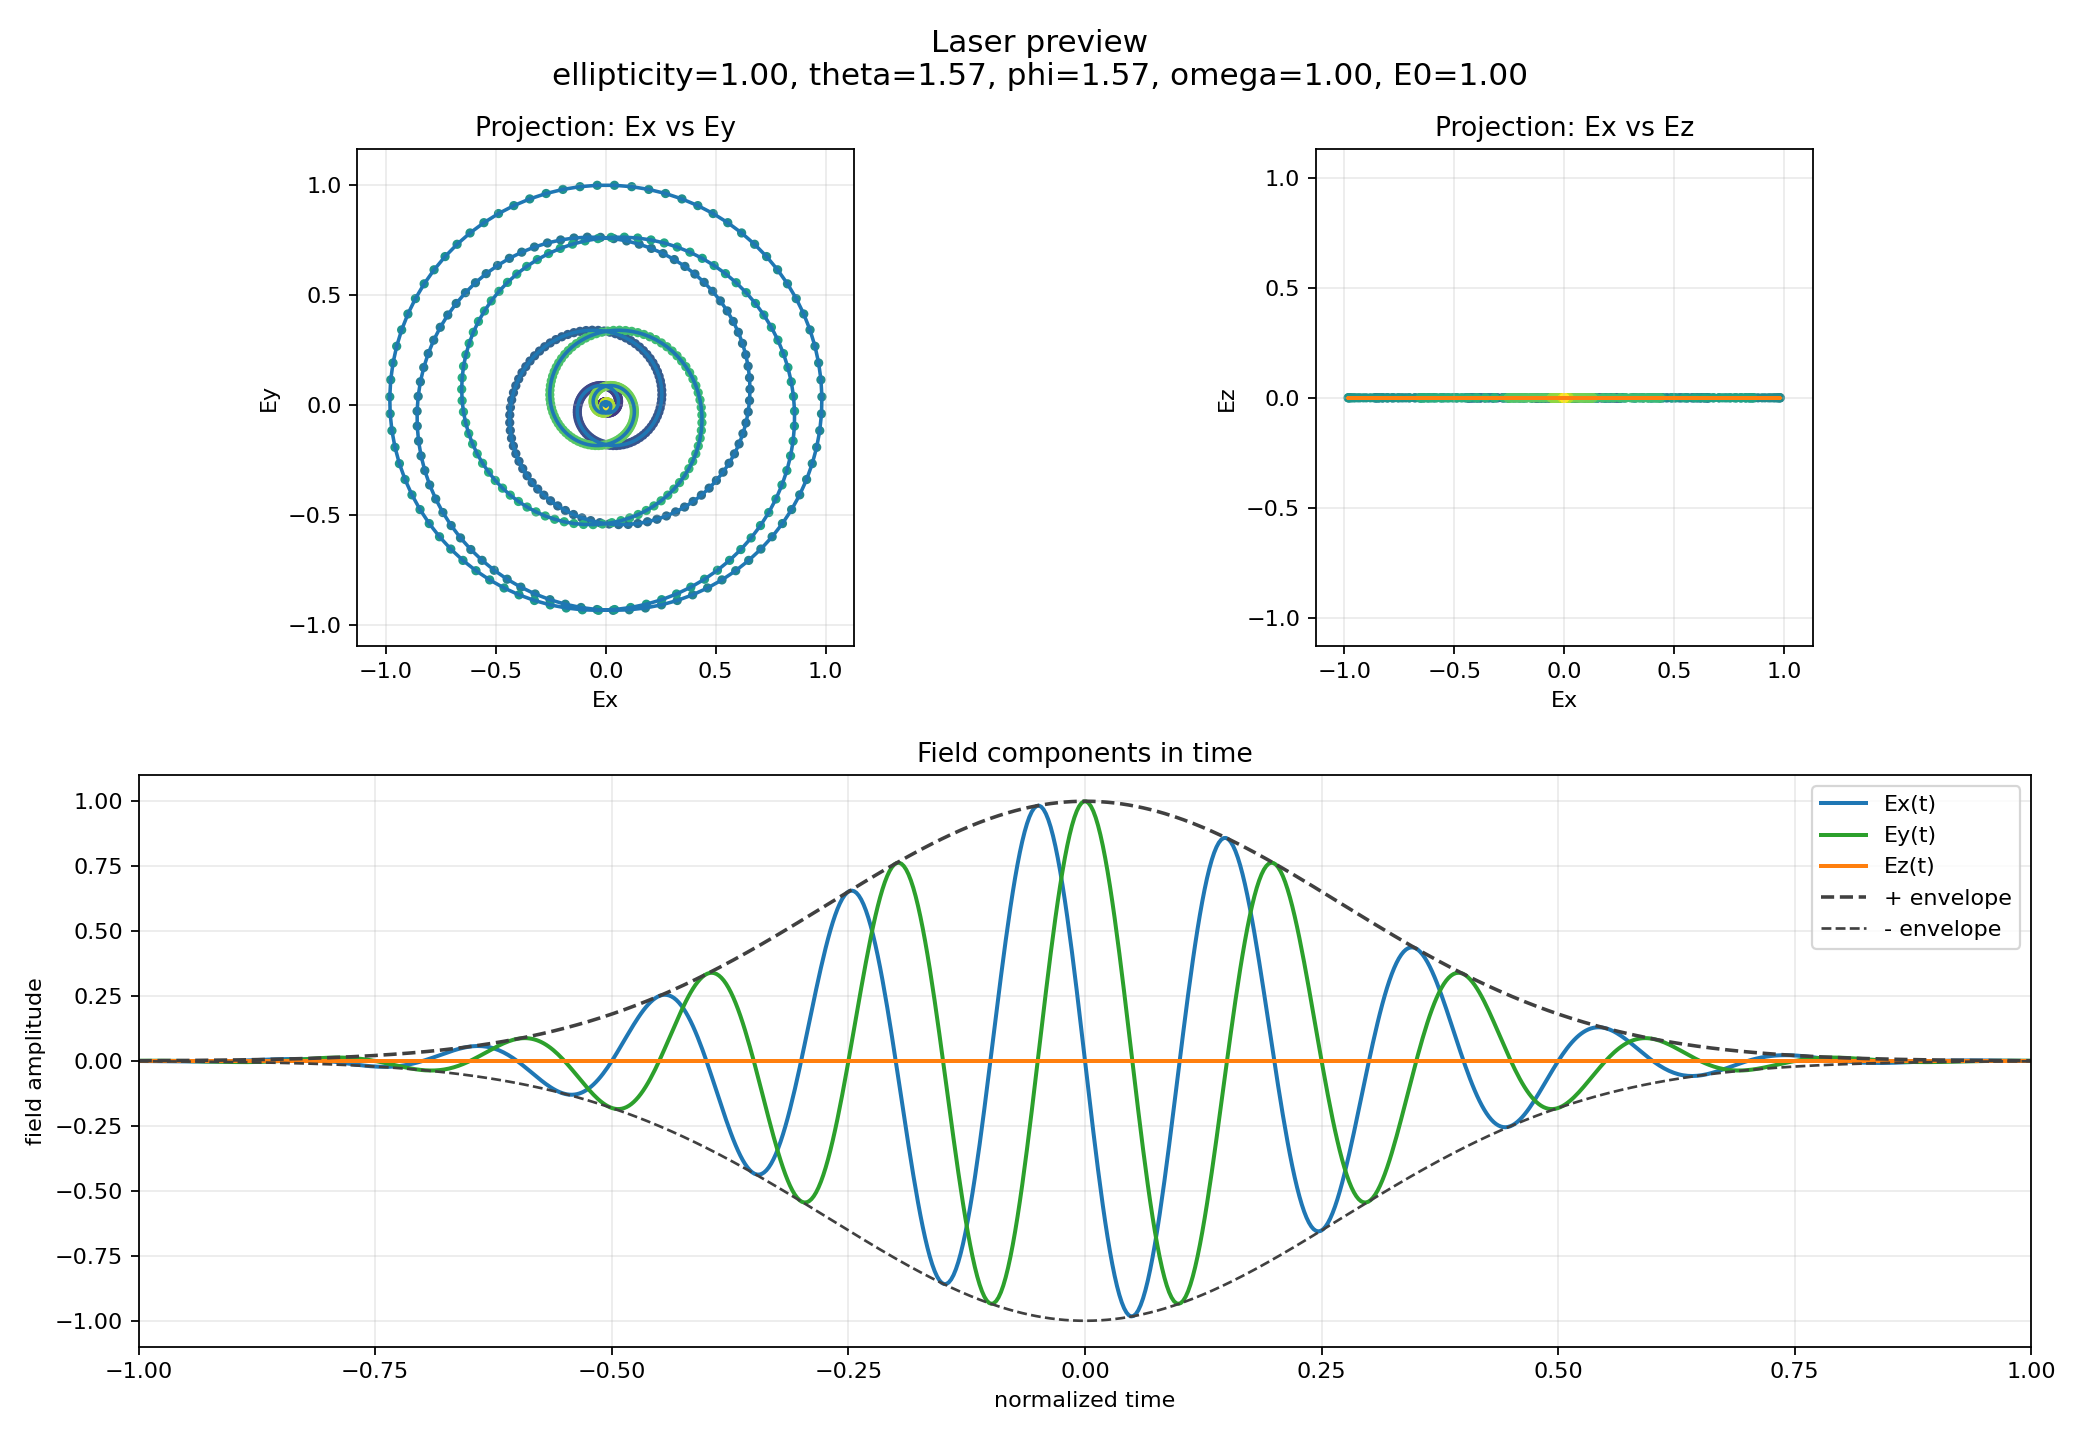
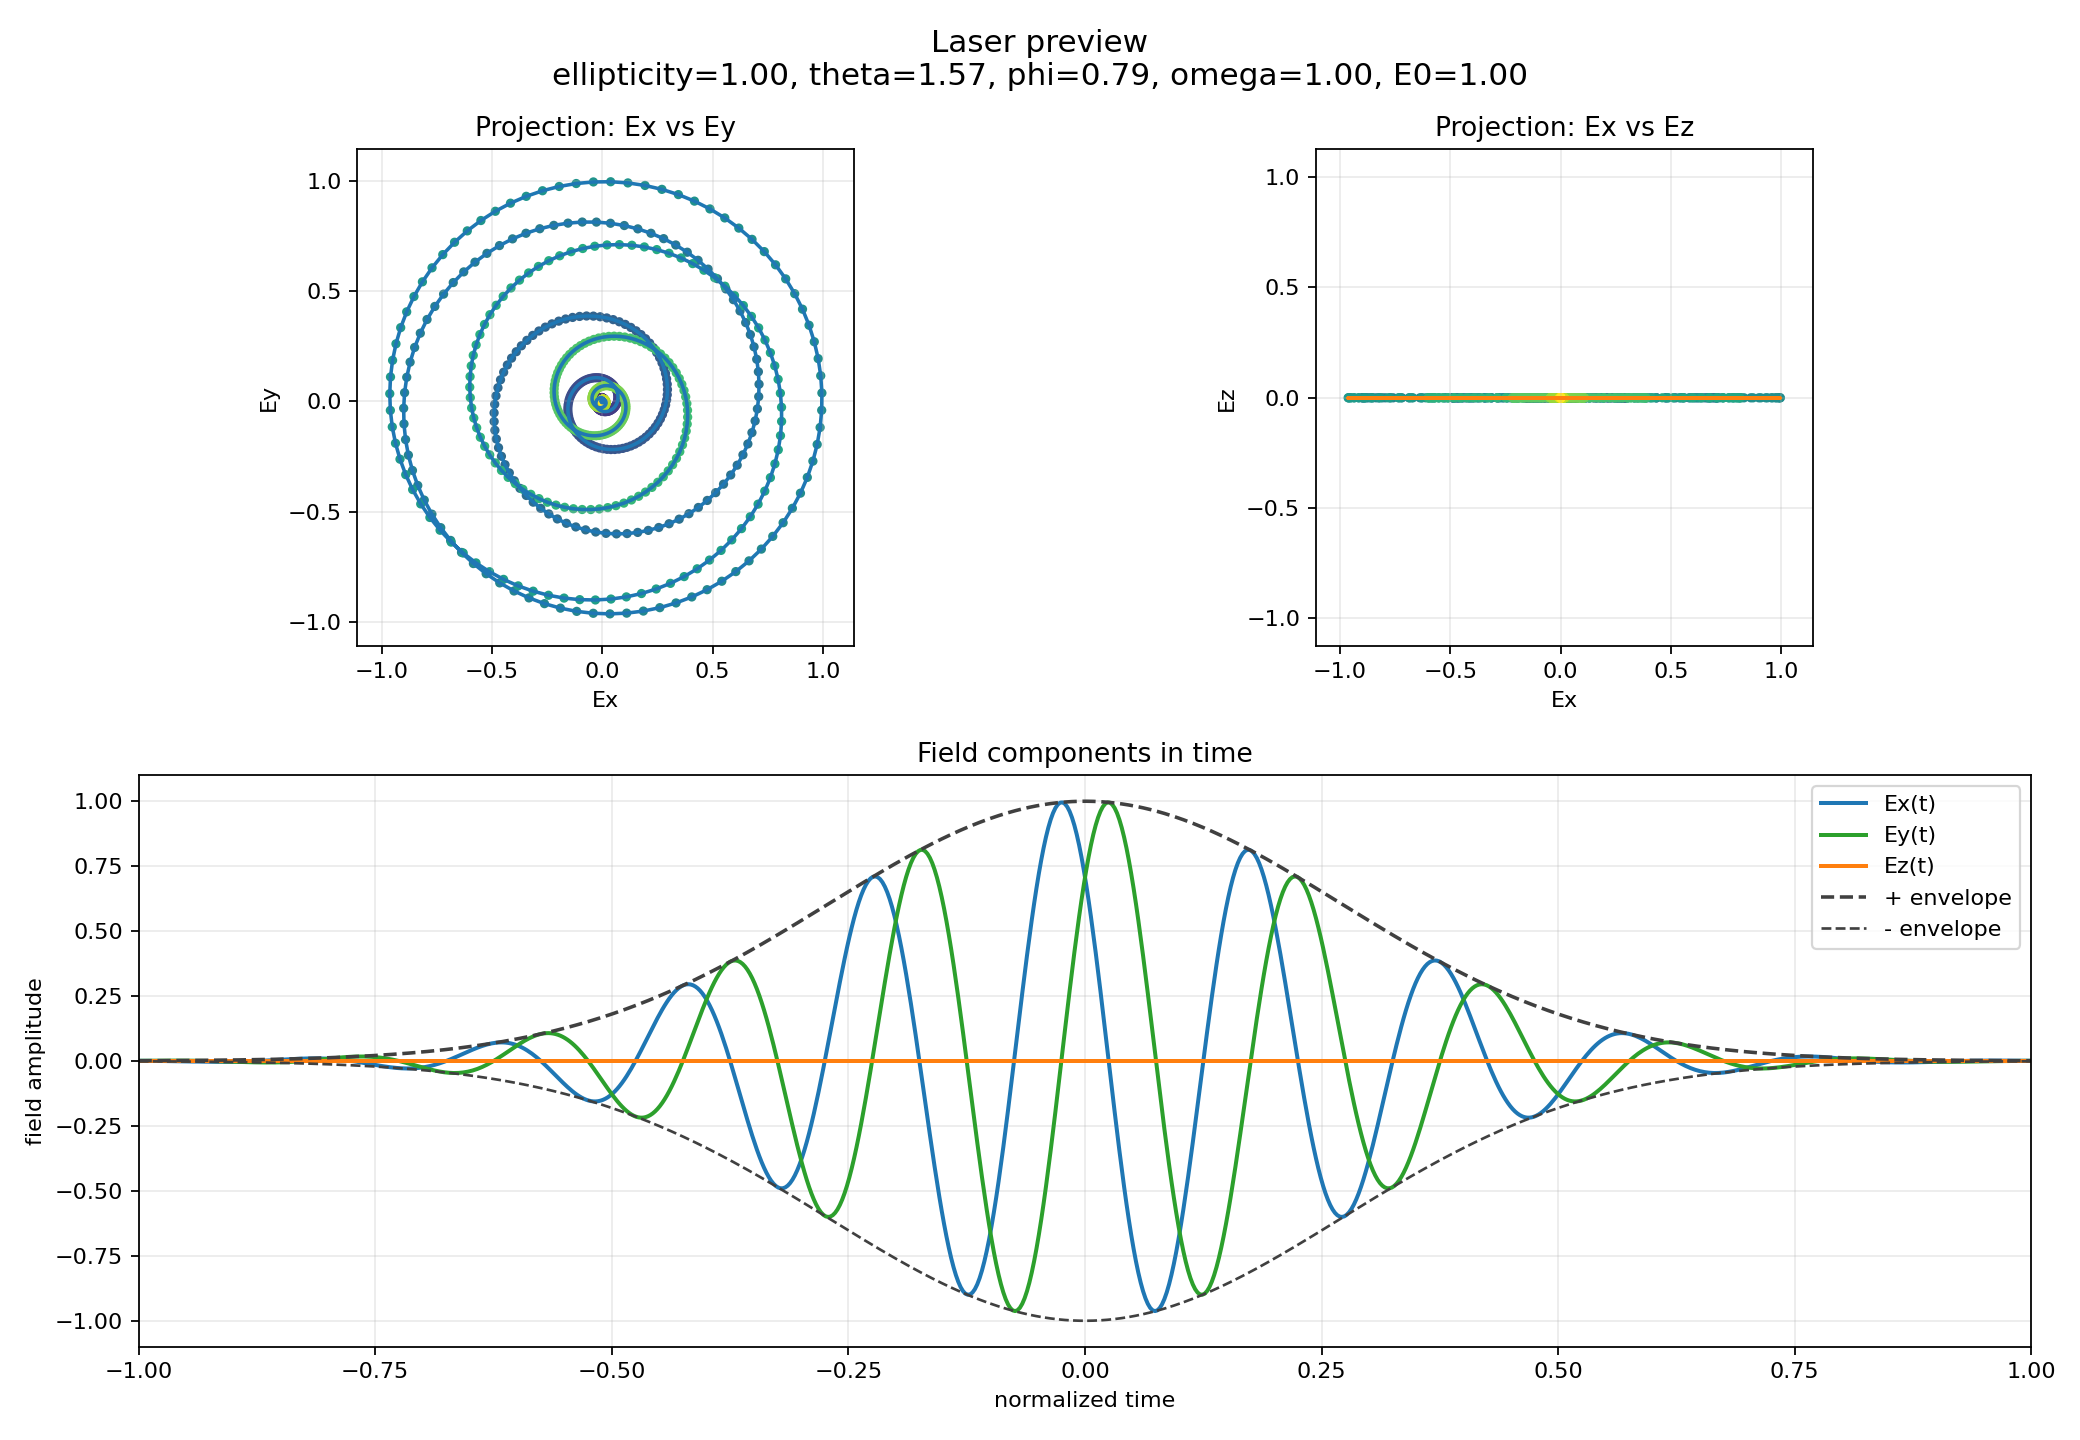
Laser tests

diff --git a/tests/test_laser.py b/tests/test_laser.py
@@ -38,7 +38,7 @@ PREVIEW_LASER_PARAMS = {
     "envelope": "gaussian",
     "t0": 0.0,
     "theta": 0.5 * np.pi,
-    "phi": 0.0,
+    "phi": 0.25 * np.pi,
 }
 
 PREVIEW_TIME_PARAMS = {
@@ -52,7 +52,7 @@ def build_reference_laser() -> Laser:
         omega=0.85,
         E0=0.06,
         phase=0.2,
-        ellipticity=0.0,
+        ellipticity=1.0,
         fwhm=24.0,
         envelope="gaussian",
         t0=0.0,